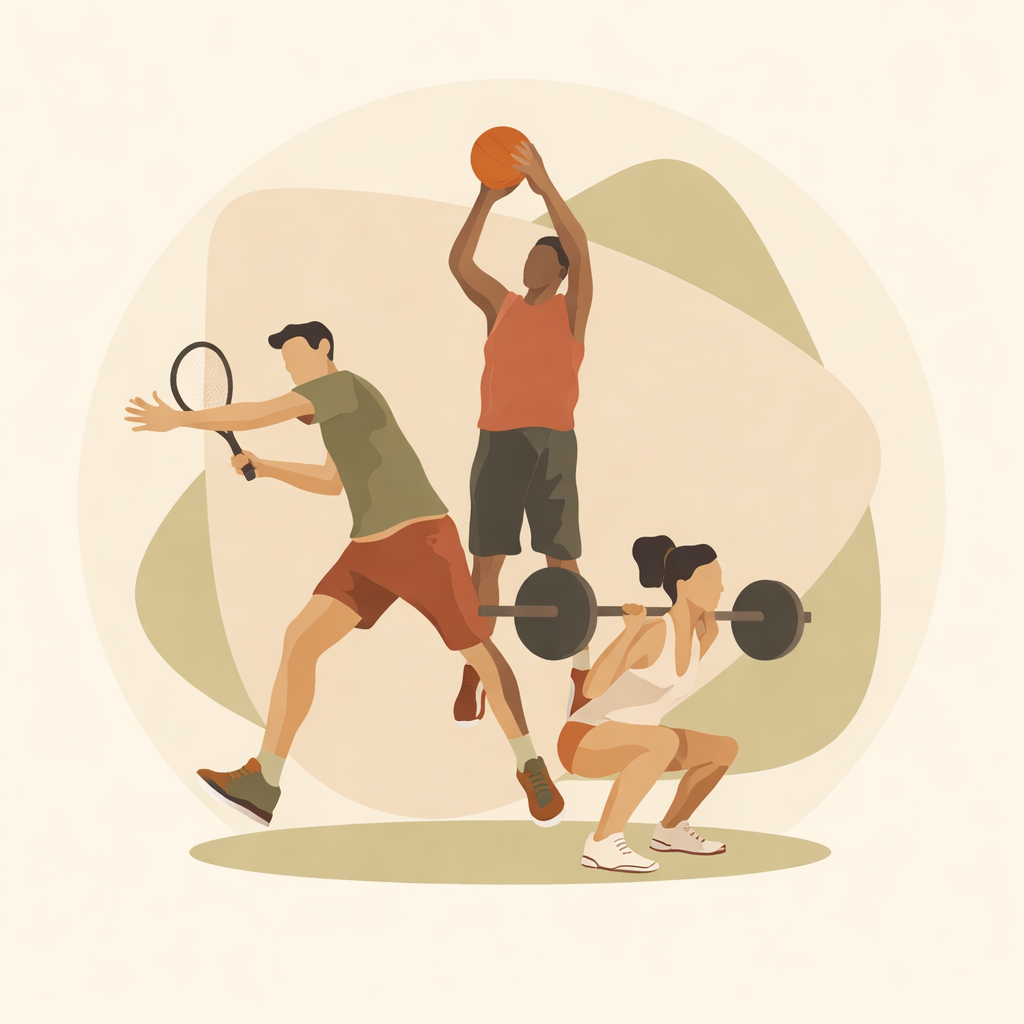
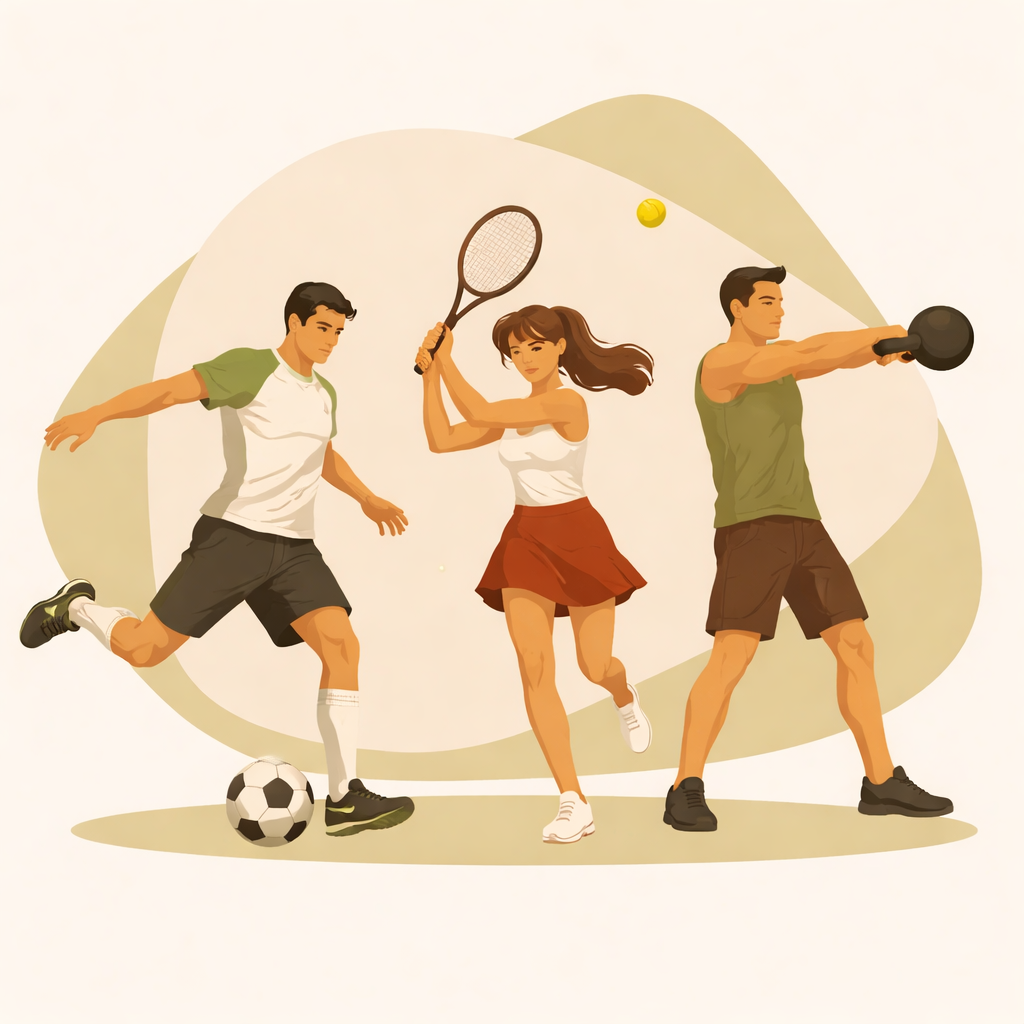
Add files via upload
Recent Changes

diff --git a/website.html b/website.html
@@ -38,6 +38,7 @@ body{font-family:'DM Sans',sans-serif;background:var(--cream);color:var(--charco
 }
 .logo-wrap{display:flex;align-items:center;gap:.75rem;}
 .logo-img{width:90px;height:68px;flex-shrink:0;display:block;}
+.logo-text{text-align:center;}
 .logo-text strong{display:block;font-family:'Cormorant Garamond',serif;font-size:1rem;font-weight:600;color:var(--deep-tc);letter-spacing:.02em;}
 .logo-text span{display:block;font-size:.63rem;font-weight:300;letter-spacing:.2em;text-transform:uppercase;color:var(--mid);}
 .main-nav ul{list-style:none;display:flex;align-items:center;gap:2.2rem;}
@@ -342,7 +343,7 @@ body{font-family:'DM Sans',sans-serif;background:var(--cream);color:var(--charco
     <img src="logo.png" alt="The Mind Movement Space" class="logo-img" loading="lazy" />
     <div class="logo-text">
       <strong>The Mind Movement Space</strong>
-      <span><center>Master your mind<br>Elevate your performance</center></span>
+      <span>Master your mind.<br>Elevate your performance.</span>
     </div>
   </div>
   <nav class="main-nav" id="mainNav">
@@ -371,7 +372,7 @@ body{font-family:'DM Sans',sans-serif;background:var(--cream);color:var(--charco
       <div class="intro-tag">Sport &amp; Exercise Psychology</div>
       <h2>  Sakshi  <em>Jhaveri</em></h2>
       <h1>Sport &amp; Exercise Psychologist</h1>
-      <p class="intro-desc">A practice focused on supporting athletes through the integration of mind and movement, helping you manage thoughts, emotions and behaviours under pressure to unlock your peak performance.</p>
+      <p class="intro-desc">A practice focused on supporting athletes through the integration of mind and movement, helping them manage thoughts, emotions and behaviours under pressure to unlock their peak performance.</p>
       <a href="#footer" class="btn-get-started">
         Get in Touch &nbsp;
         <svg width="15" height="15" viewBox="0 0 15 15" fill="none"><path d="M2.5 7.5h10M8 3.5l4 4-4 4" stroke="currentColor" stroke-width="1.6" stroke-linecap="round" stroke-linejoin="round"/></svg>
@@ -403,17 +404,17 @@ body{font-family:'DM Sans',sans-serif;background:var(--cream);color:var(--charco
 <section id="about">
   <div class="about-grid">
     <div class="about-img-wrap reveal" style="transition-delay:.08s">
-      <img class="about-illus" src="about.png" alt="About The Mind Movement Space" loading="lazy" />
+    <img class="about-illus" src="about.png" alt="About &quot;The Mind Movement Space&quot;" loading="lazy" />
     </div>
     <div class="reveal" style="transition-delay:.12s">
       <div class="sec-label">About</div>
       <h2 class="sec-title">Welcome To <em>"The Mind Movement Space"</em><br></h2>
       <div class="divider"></div>
-      <p style="font-size:.92rem;line-height:1.8;color:var(--mid);margin-bottom:1rem;"><b><i>The Mind Movement Space</i></b>is a practice focused on supporting athletes in developing their performance through the integration of mind and movement. In sport, performance is shaped not only by physical and technical ability, but also by how individuals manage thoughts, emotions, and behaviors under pressure.</p>
+      <p style="font-size:.92rem;line-height:1.8;color:var(--mid);margin-bottom:1rem;"><b><i>&quot;The Mind Movement Space&quot; </i></b>  is a practice focused on supporting athletes in developing their performance through the integration of mind and movement. In sport, performance is shaped not only by physical and technical ability, but also by how individuals manage thoughts, emotions, and behaviors under pressure.</p>
       <p style="font-size:.92rem;line-height:1.8;color:var(--mid);margin-bottom:1.6rem;">Founded and led by Sakshi Jhaveri, a Sport and Exercise Psychologist, this space works with athletes across different levels and sporting backgrounds to strengthen their mental approach to training and competition.</p>
       <p style="font-size:.92rem;line-height:1.8;color:var(--mid);margin-bottom:1.6rem;">This work extends to coaches, individuals from the general and rehabilitation population, and corporate settings, applying similar psychological principles to support behavior change, engagement with movement, and sustainable functioning. </p>
       <div class="about-highlight">
-        <p><strong style="color:var(--terracotta)">"Peak Performance Starts with the Right Mindset"</strong><br>The philosophy guiding every session at The Mind Movement Space.</p>
+        <p><strong style="color:var(--terracotta)">"Peak Performance Starts with the Right Mindset"</strong><br>The philosophy guiding every session at &quot;The Mind Movement Space&quot;.</p>
       </div>
     </div>
   </div>
@@ -504,13 +505,16 @@ body{font-family:'DM Sans',sans-serif;background:var(--cream);color:var(--charco
 <section id="services">
   <div class="services-header reveal">
     <div class="sec-label">Work With Me</div>
-    <h2 class="sec-title">Area's of support<br></h2>
+    <h2 class="sec-title">Areas of support<br></h2>
     <div class="divider center"></div>
-    <p style="max-width:540px;margin:0 auto;font-size:.9rem;line-height:1.75;color:var(--mid);">A structured approach to support performance, behaviour, and well-being through mind and movement.
-<br>
-      The Mind Movement Space offers individual, team, and group-based sessions designed to address the psychological and behavioral demands experienced within sport, exercise, and performance environments.</p>
+    <p style="max-width:540px;margin:0 auto;font-size:.9rem;line-height:1.75;color:var(--mid);">
+      "The Mind Movement Space" follows a structured approach to support performance, behavior, and well-being through the integration of mind and movement.
+    </p>
+    <p style="max-width:540px;margin:0 auto;font-size:.9rem;line-height:1.75;color:var(--mid);">
+      It offers individual, team, and group-based sessions designed to address the psychological and behavioral demands experienced within sport, exercise, and performance environments.
+    </p>
   </div>
- 
+
   <div class="services-grid">
     <div class="svc-card reveal">
       <div class="svc-ilus svc-ilus-photo">

diff --git a/approach.html b/approach.html
@@ -37,6 +37,7 @@ body{
 }
 .logo-wrap{display:flex;align-items:center;gap:.75rem;}
 .logo-img{width:60px;height:60px;flex-shrink:0;display:block;}
+.logo-text{text-align:center;}
 .logo-text strong{display:block;font-family:'Cormorant Garamond',serif;font-size:1rem;font-weight:600;color:var(--deep-tc);letter-spacing:.02em;}
 .logo-text span{display:block;font-size:.63rem;font-weight:300;letter-spacing:.2em;text-transform:uppercase;color:var(--mid);}
 .main-nav ul{list-style:none;display:flex;align-items:center;gap:2.2rem;}
@@ -148,7 +149,7 @@ body{
       <img src="logo.png" alt="The Mind Movement Space" class="logo-img" loading="lazy" />
       <div class="logo-text">
         <strong>The Mind Movement Space</strong>
-        <span>Mind &nbsp;·&nbsp; Movement &nbsp;·&nbsp; Exercise</span>
+        <span>Master your mind.<br>Elevate your performance.</span>
       </div>
     </div>
     <nav class="main-nav" id="mainNav">
@@ -182,7 +183,7 @@ body{
     </div>
     <section class="story">
       <div class="subtitle">Approach</div>
-      <h1 class="title">The Mind Movement Space Approach</h1>
+      <h1 class="title">"The Mind Movement Space" Approach</h1>
       <p>Her work is grounded in understanding the relationship between mind and movement, with a focus on how thoughts, emotions, and behaviors influence the way individuals train, compete, and engage with movement. This includes developing awareness, building psychological skills, and creating structures that support consistency and adaptability over time.</p>
       <p>Her approach is informed by evidence-based frameworks such as Cognitive Behavioral Therapy (CBT) and Rational Emotive Behavior Therapy (REBT), with an emphasis on the connection between thoughts, emotions, and behavior. These approaches are applied to help individuals build mental resilience, manage pressure, and develop more effective responses within high-performance and demanding environments.</p>
       <p>The work is both developmental and preventative, focusing not only on addressing challenges but also on building skills that support long-term growth, performance consistency, and well-being. It extends beyond moments of difficulty to create a foundation for sustained engagement with sport and movement.</p>

diff --git a/story.html b/story.html
@@ -37,6 +37,7 @@ body{
 }
 .logo-wrap{display:flex;align-items:center;gap:.75rem;}
 .logo-img{width:60px;height:60px;flex-shrink:0;display:block;}
+.logo-text{text-align:center;}
 .logo-text strong{display:block;font-family:'Cormorant Garamond',serif;font-size:1rem;font-weight:600;color:var(--deep-tc);letter-spacing:.02em;}
 .logo-text span{display:block;font-size:.63rem;font-weight:300;letter-spacing:.2em;text-transform:uppercase;color:var(--mid);}
 .main-nav ul{list-style:none;display:flex;align-items:center;gap:2.2rem;}
@@ -145,7 +146,7 @@ body{
       <img src="logo.png" alt="The Mind Movement Space" class="logo-img" loading="lazy" />
       <div class="logo-text">
         <strong>The Mind Movement Space</strong>
-        <span>Mind &nbsp;·&nbsp; Movement &nbsp;·&nbsp; Exercise</span>
+        <span>Master your mind.<br>Elevate your performance.</span>
       </div>
     </div>
     <nav class="main-nav" id="mainNav">
@@ -165,7 +166,7 @@ body{
   <main class="page">
     <img src="badminton_2.png" alt="Badminton" class="story-img" loading="lazy" />
     <section class="story">
-      <div class="subtitle">Personal Story</div>
+      <!-- <div class="subtitle">Personal Story</div> -->
       <h1 class="title">From the Badminton Court to Sport Psychology</h1>
       <p>Sakshi Jhaveri’s journey into Sport and Exercise Psychology is rooted in her own experiences with badminton. Having played the sport competitively, she was exposed to the demands of performance, expectations, consistency, and the ongoing challenge of navigating setbacks within competitive environments. These experiences provided early insight into the psychological demands that often accompany sport, beyond physical and technical preparation.</p>
       <p>Alongside this, badminton also became a space that supported her well-being beyond performance. It offered structure, focus, and a sense of grounding, highlighting the role that movement can play not only in achieving outcomes, but also in managing stress and maintaining balance.</p>

diff --git a/expertise.html b/expertise.html
@@ -37,6 +37,7 @@ body{
 }
 .logo-wrap{display:flex;align-items:center;gap:.75rem;}
 .logo-img{width:90px;height:68px;flex-shrink:0;display:block;}
+.logo-text{text-align:center;}
 .logo-text strong{display:block;font-family:'Cormorant Garamond',serif;font-size:1rem;font-weight:600;color:var(--deep-tc);letter-spacing:.02em;}
 .logo-text span{display:block;font-size:.63rem;font-weight:300;letter-spacing:.2em;text-transform:uppercase;color:var(--mid);}
 .main-nav ul{list-style:none;display:flex;align-items:center;gap:2.2rem;}
@@ -148,7 +149,7 @@ body{
       <img src="logo.png" alt="The Mind Movement Space" class="logo-img" loading="lazy" />
       <div class="logo-text">
         <strong>The Mind Movement Space</strong>
-        <span>Mind &nbsp;·&nbsp; Movement &nbsp;·&nbsp; Exercise</span>
+        <span>Master your mind.<br>Elevate your performance.</span>
       </div>
     </div>
     <nav class="main-nav" id="mainNav">

diff --git a/group.html b/group.html
@@ -37,6 +37,7 @@ body{
 }
 .logo-wrap{display:flex;align-items:center;gap:.75rem;}
 .logo-img{width:90px;height:68px;flex-shrink:0;display:block;}
+.logo-text{text-align:center;}
 .logo-text strong{display:block;font-family:'Cormorant Garamond',serif;font-size:1rem;font-weight:600;color:var(--deep-tc);letter-spacing:.02em;}
 .logo-text span{display:block;font-size:.63rem;font-weight:300;letter-spacing:.2em;text-transform:uppercase;color:var(--mid);}
 .main-nav ul{list-style:none;display:flex;align-items:center;gap:2.2rem;}
@@ -151,7 +152,7 @@ body{
       <img src="logo.png" alt="The Mind Movement Space" class="logo-img" loading="lazy" />
       <div class="logo-text">
         <strong>The Mind Movement Space</strong>
-        <span>Mind &nbsp;·&nbsp; Movement &nbsp;·&nbsp; Exercise</span>
+        <span>Master your mind.<br>Elevate your performance.</span>
       </div>
     </div>
     <nav class="main-nav" id="mainNav">

diff --git a/individual.html b/individual.html
@@ -37,6 +37,7 @@ body{
 }
 .logo-wrap{display:flex;align-items:center;gap:.75rem;}
 .logo-img{width:90px;height:68px;flex-shrink:0;display:block;}
+.logo-text{text-align:center;}
 .logo-text strong{display:block;font-family:'Cormorant Garamond',serif;font-size:1rem;font-weight:600;color:var(--deep-tc);letter-spacing:.02em;}
 .logo-text span{display:block;font-size:.63rem;font-weight:300;letter-spacing:.2em;text-transform:uppercase;color:var(--mid);}
 .main-nav ul{list-style:none;display:flex;align-items:center;gap:2.2rem;}
@@ -151,7 +152,7 @@ body{
       <img src="logo.png" alt="The Mind Movement Space" class="logo-img" loading="lazy" />
       <div class="logo-text">
         <strong>The Mind Movement Space</strong>
-        <span>Mind &nbsp;·&nbsp; Movement &nbsp;·&nbsp; Exercise</span>
+        <span>Master your mind.<br>Elevate your performance.</span>
       </div>
     </div>
     <nav class="main-nav" id="mainNav">

diff --git a/scope.html b/scope.html
@@ -37,6 +37,7 @@ body{
 }
 .logo-wrap{display:flex;align-items:center;gap:.75rem;}
 .logo-img{width:60px;height:60px;flex-shrink:0;display:block;}
+.logo-text{text-align:center;}
 .logo-text strong{display:block;font-family:'Cormorant Garamond',serif;font-size:1rem;font-weight:600;color:var(--deep-tc);letter-spacing:.02em;}
 .logo-text span{display:block;font-size:.63rem;font-weight:300;letter-spacing:.2em;text-transform:uppercase;color:var(--mid);}
 .main-nav ul{list-style:none;display:flex;align-items:center;gap:2.2rem;}
@@ -139,7 +140,7 @@ body{
       <img src="logo.png" alt="The Mind Movement Space" class="logo-img" loading="lazy" />
       <div class="logo-text">
         <strong>The Mind Movement Space</strong>
-        <span>Mind &nbsp;·&nbsp; Movement &nbsp;·&nbsp; Exercise</span>
+        <span>Master your mind.<br>Elevate your performance.</span>
       </div>
     </div>
     <nav class="main-nav" id="mainNav">

diff --git a/team.html b/team.html
@@ -37,6 +37,7 @@ body{
 }
 .logo-wrap{display:flex;align-items:center;gap:.75rem;}
 .logo-img{width:90px;height:68px;flex-shrink:0;display:block;}
+.logo-text{text-align:center;}
 .logo-text strong{display:block;font-family:'Cormorant Garamond',serif;font-size:1rem;font-weight:600;color:var(--deep-tc);letter-spacing:.02em;}
 .logo-text span{display:block;font-size:.63rem;font-weight:300;letter-spacing:.2em;text-transform:uppercase;color:var(--mid);}
 .main-nav ul{list-style:none;display:flex;align-items:center;gap:2.2rem;}
@@ -152,7 +153,7 @@ body{
       <img src="logo.png" alt="The Mind Movement Space" class="logo-img" loading="lazy" />
       <div class="logo-text">
         <strong>The Mind Movement Space</strong>
-        <span>Mind &nbsp;·&nbsp; Movement &nbsp;·&nbsp; Exercise</span>
+        <span>Master your mind.<br>Elevate your performance.</span>
       </div>
     </div>
     <nav class="main-nav" id="mainNav">